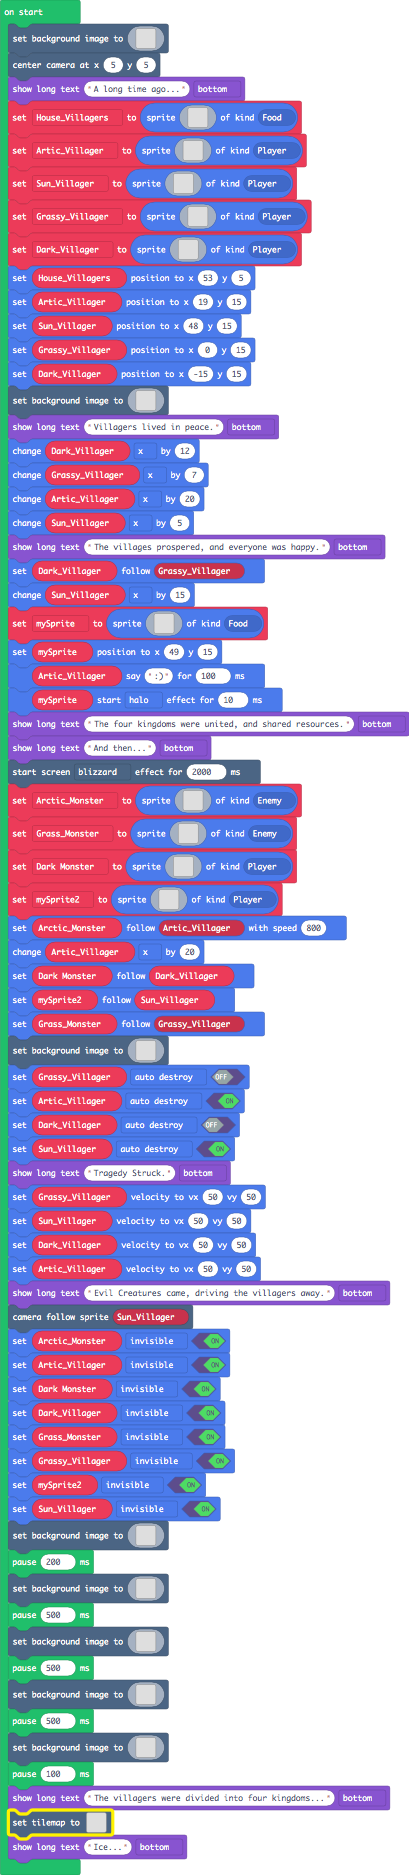
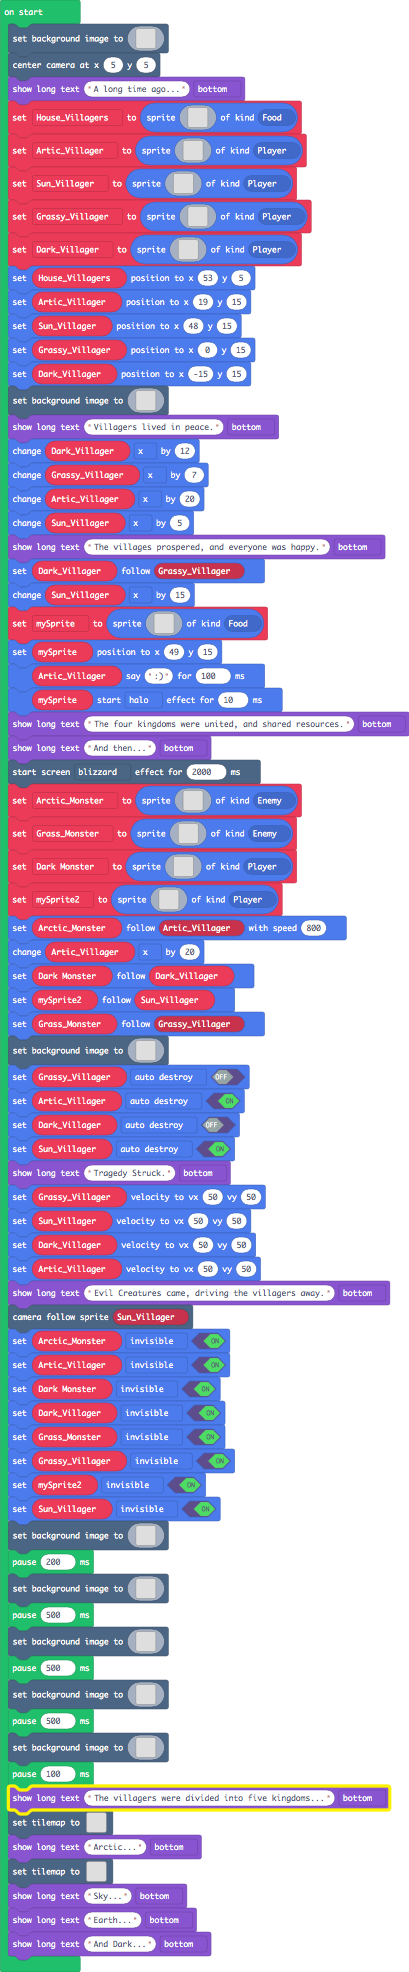
Added "sky" background

diff --git a/main.ts b/main.ts
@@ -75,6 +75,25 @@ d d d d d d d d d d d d d d d d
 1 1 1 1 1 1 1 1 1 1 1 1 1 1 1 1 
 1 1 9 1 1 1 9 1 1 1 9 1 1 1 9 1 
 `
+    //% blockIdentity=images._tile
+    export const tile5 = img`
+9 9 9 9 9 9 9 9 9 9 9 9 9 9 9 9 
+9 9 9 9 9 9 9 9 9 9 9 9 9 9 9 9 
+9 9 9 9 9 9 9 9 9 9 9 9 9 9 9 9 
+9 9 9 9 9 9 9 9 9 9 9 9 9 9 9 9 
+9 9 9 9 9 9 9 9 9 9 9 9 9 9 9 9 
+9 9 9 9 9 9 9 9 9 9 9 9 9 9 9 9 
+9 9 9 9 9 9 1 1 1 9 9 9 9 9 9 9 
+9 9 9 9 9 1 1 1 1 1 9 9 9 9 9 9 
+9 9 9 9 1 1 1 1 1 1 1 9 9 9 9 9 
+9 9 9 1 1 1 1 1 1 1 1 1 9 9 9 9 
+9 9 9 1 1 1 1 1 1 1 1 1 9 9 9 9 
+9 9 9 9 9 9 9 9 9 9 9 9 9 9 9 9 
+9 9 9 9 9 9 9 9 9 9 9 9 9 9 9 9 
+9 9 9 9 9 9 9 9 9 9 9 9 9 9 9 9 
+9 9 9 9 9 9 9 9 9 9 9 9 9 9 9 9 
+9 9 9 9 9 9 9 9 9 9 9 9 9 9 9 9 
+`
 }
 scene.setBackgroundImage(img`
 6 6 6 6 6 6 6 6 6 6 6 6 6 6 6 6 6 6 6 6 6 6 6 6 6 6 6 6 6 6 6 6 6 6 6 6 6 6 6 6 6 6 6 6 6 6 6 6 6 6 6 6 6 6 6 6 6 6 6 6 6 6 6 6 6 6 6 6 6 6 6 6 6 6 6 6 6 6 6 6 6 6 6 6 6 6 6 6 6 6 6 6 6 6 6 6 6 6 6 6 6 6 6 6 6 6 6 6 6 6 6 6 6 6 6 6 6 6 6 6 6 6 6 6 6 6 6 6 6 6 6 6 6 6 6 6 6 6 6 6 6 6 6 6 6 6 6 6 6 6 6 6 6 6 6 6 6 6 6 6 
@@ -1336,7 +1355,7 @@ f f f f f f f f f f f f f f f f f f f f f f f f f f f f f f f f f f f f f f f f 
 f f f f f f f f f f f f f f f f f f f f f f f f f f f f f f f f f f f f f f f f f f f f f f f f f f f f f f f f f f f f f f f f f f f f f f f f f f f f f f f f f f f f f f f f f f f f f f f f f f f f f f f f f f f f f f f f f f f f f f f f f f f f f f f f f f f f f f f f f f f f f f f f f f f f f f f f f f f f f f f f 
 `)
 pause(100)
-game.showLongText("The villagers were divided into four kingdoms...", DialogLayout.Bottom)
+game.showLongText("The villagers were divided into five kingdoms...", DialogLayout.Bottom)
 tiles.setTilemap(tiles.createTilemap(
             hex`1000100009090909090909090909090909090909090909090909090909090909090909090909090909090909090909090909090909090909090909090909090909090909090909090909090909090909090909090909090909090909090909090909090909090909090909090909090909090909090909090909090909090909090909090909090909090909090909090909090909090909090909090909090909090909090909090909090909090909090909090909090909090909090909090909090904040404040404040404040404040404040404040404040404040404040404040404040404040404040404040404040404040404040404040404040404040404`,
             img`
@@ -1357,7 +1376,33 @@ tiles.setTilemap(tiles.createTilemap(
 . . . . . . . . . . . . . . . . 
 . . . . . . . . . . . . . . . . 
 `,
-            [myTiles.tile0,sprites.builtin.coral2,sprites.castle.tilePath5,myTiles.tile2,myTiles.tile3,sprites.castle.tileDarkGrass2,sprites.castle.tileDarkGrass3,sprites.builtin.forestTiles0,sprites.castle.tileGrass1,myTiles.tile4],
+            [myTiles.tile0,sprites.builtin.coral2,sprites.castle.tilePath5,myTiles.tile2,myTiles.tile3,sprites.castle.tileDarkGrass2,sprites.castle.tileDarkGrass3,sprites.builtin.forestTiles0,sprites.castle.tileGrass1,myTiles.tile4,myTiles.tile5],
             TileScale.Sixteen
         ))
-game.showLongText("Ice...", DialogLayout.Bottom)
+game.showLongText("Arctic...", DialogLayout.Bottom)
+tiles.setTilemap(tiles.createTilemap(
+            hex`1000100018181818181818181818181818181818181818181818181818181818181818181818181818181818181818181818181818181818181818181818181818181818181818181818181818181818181818181818181818181818181818181818181818181818181818181818181818181818181818181818181818181818181818181818181818181818181818181818181818181818181818181818181818181818181818181818181818181818181818181818181818181818181818181818181818181818181818181818181818181818181818181818181818181818181818180909090909090909090909090909090909090909090909090909090909090909`,
+            img`
+. . . . . . . . . . . . . . . . 
+. . . . . . . . . . . . . . . . 
+. . . . . . . . . . . . . . . . 
+. . . . . . . . . . . . . . . . 
+. . . . . . . . . . . . . . . . 
+. . . . . . . . . . . . . . . . 
+. . . . . . . . . . . . . . . . 
+. . . . . . . . . . . . . . . . 
+. . . . . . . . . . . . . . . . 
+. . . . . . . . . . . . . . . . 
+. . . . . . . . . . . . . . . . 
+. . . . . . . . . . . . . . . . 
+. . . . . . . . . . . . . . . . 
+. . . . . . . . . . . . . . . . 
+. . . . . . . . . . . . . . . . 
+. . . . . . . . . . . . . . . . 
+`,
+            [myTiles.tile0,sprites.builtin.coral2,sprites.castle.tilePath5,myTiles.tile2,myTiles.tile3,sprites.castle.tileDarkGrass2,sprites.castle.tileDarkGrass3,sprites.builtin.forestTiles0,sprites.castle.tileGrass1,myTiles.tile4,sprites.builtin.forestTiles23,sprites.builtin.forestTiles19,sprites.builtin.forestTiles28,sprites.builtin.oceanDepths11,sprites.builtin.oceanDepths10,sprites.builtin.oceanSand15,sprites.dungeon.darkGroundCenter,sprites.dungeon.greenOuterNorth0,sprites.dungeon.greenInnerSouthEast,sprites.dungeon.greenInnerSouthWest,sprites.dungeon.greenOuterEast2,sprites.dungeon.stairSouth,sprites.builtin.brick,sprites.dungeon.hazardLava1,myTiles.tile5],
+            TileScale.Sixteen
+        ))
+game.showLongText("Sky...", DialogLayout.Bottom)
+game.showLongText("Earth...", DialogLayout.Bottom)
+game.showLongText("And Dark...", DialogLayout.Bottom)
